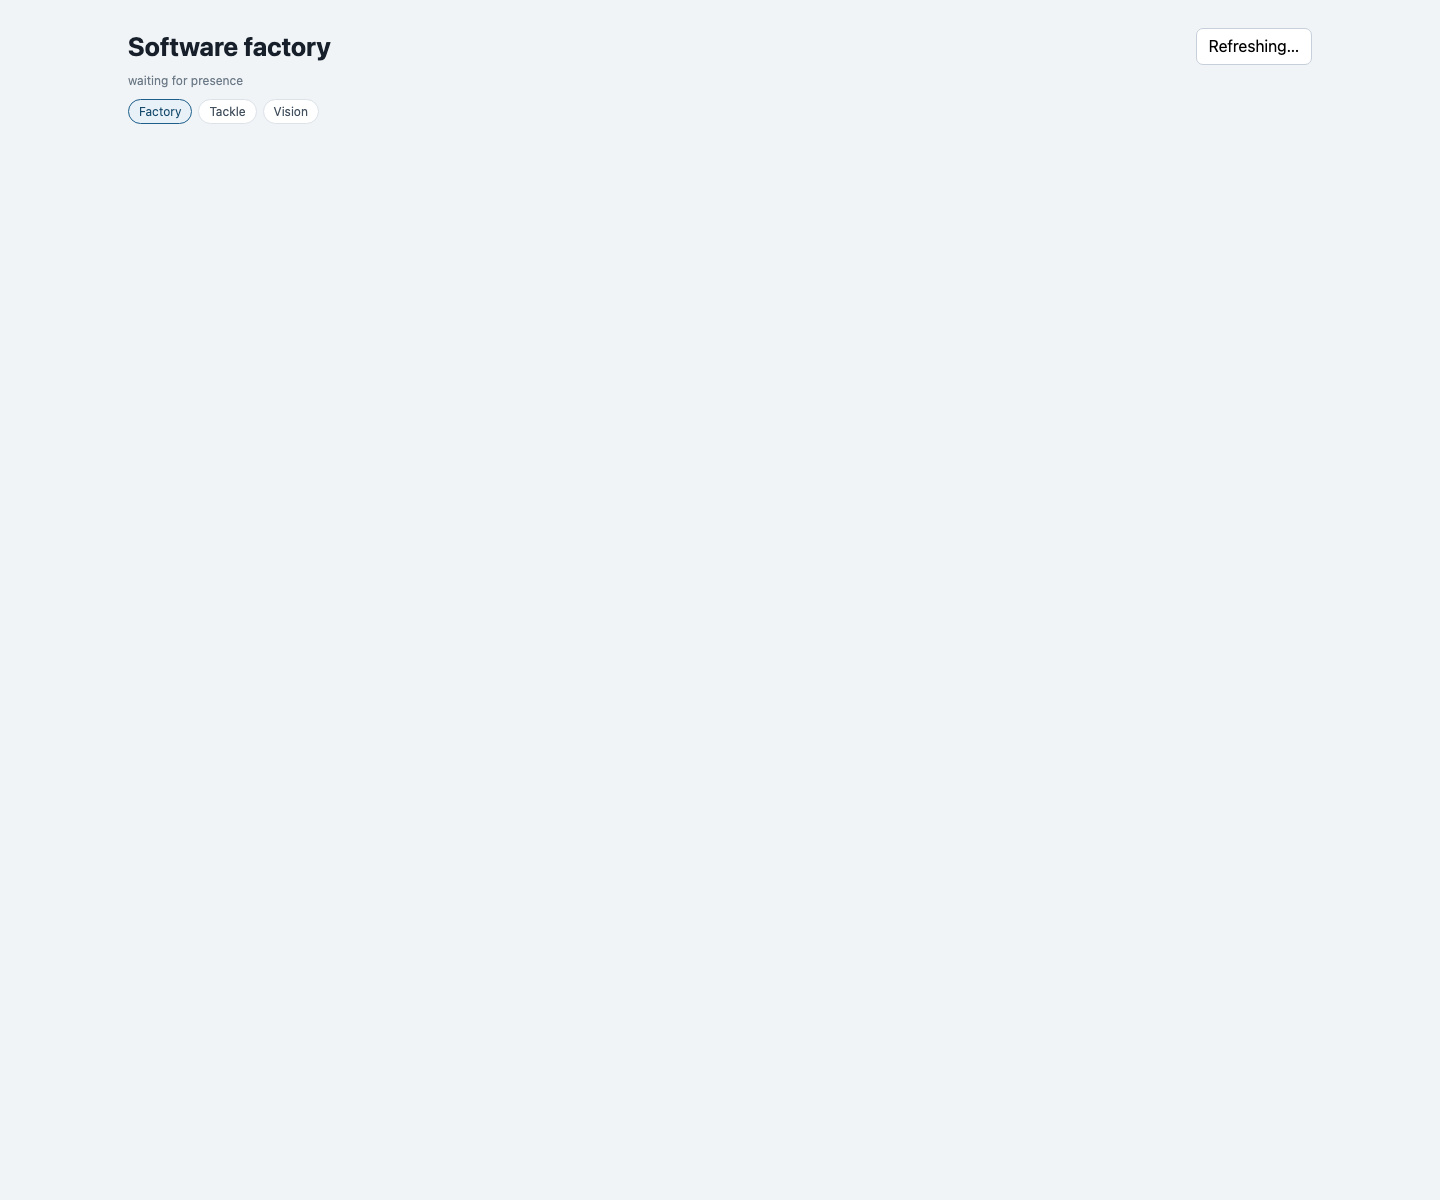
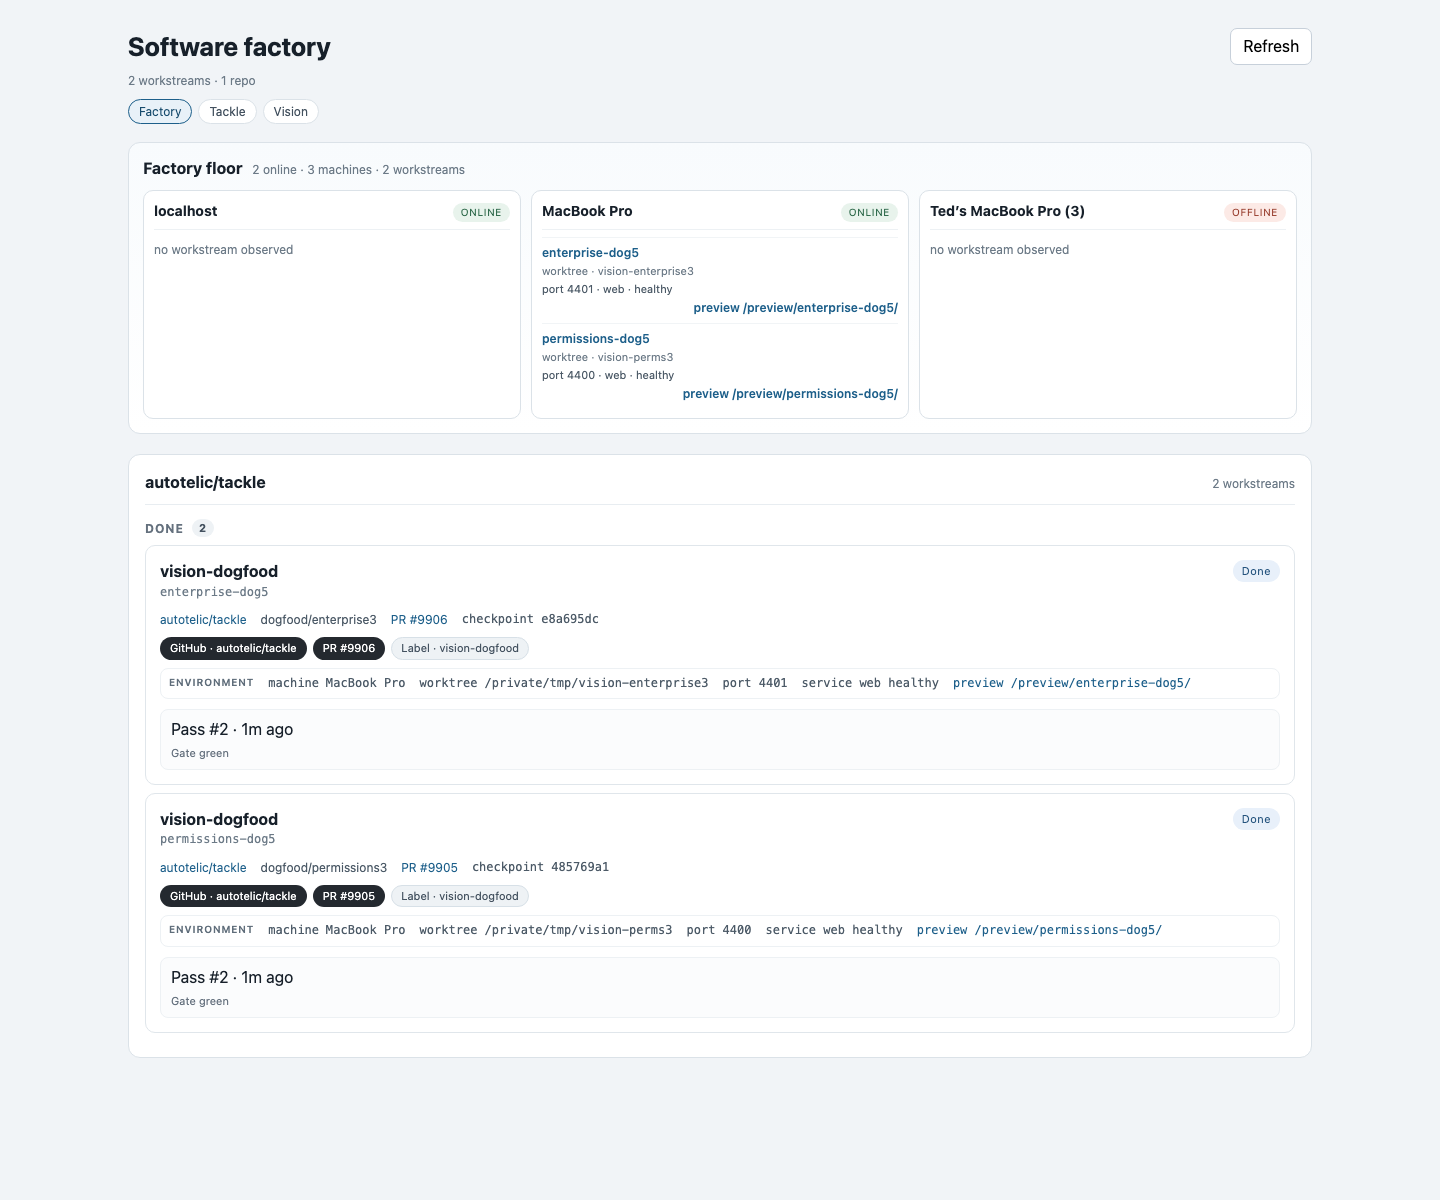
factory: clear ready desks on merge and prove restart
Merged retirement closes the ready-to-merge item, so a done workstream cannot still ask for a merge. The dogfood now crosses two processes with distinct PIDs and timestamps, zero-quality receipts, clean checkpoints, and empty desks.

diff --git a/packages/board/test/watch.test.ts b/packages/board/test/watch.test.ts
@@ -4,7 +4,7 @@ import { join } from "node:path"
 import { fileURLToPath } from "node:url"
 import * as Result from "effect/Result"
 import { expect, test } from "vitest"
-import { answerDesk, raiseDesk } from "../src/factory/desk.ts"
+import { answerDesk, listDesk, raiseDesk } from "../src/factory/desk.ts"
 import { readWorkstream, recordOf, writeWorkstream, type Workstream } from "../src/factory/store.ts"
 import {
   baseEvents,
@@ -180,6 +180,47 @@ test("a merged PR becomes a retirement event and nothing else", () => {
   expect(events).toHaveLength(1)
   expect(events[0]?.kind).toBe("merged")
   expect(events[0]?.id).toBe("github:merged:1862:abc123")
+})
+
+test("a merged PR closes the pending ready desk", async () => {
+  const root = mkdtempSync(join(tmpdir(), "factory-merged-desk-"))
+  try {
+    const record = { ...base(), phase: "build" as const }
+    await writeWorkstream({ record, home: root })
+    await raiseDesk({
+      home: root,
+      item: {
+        id: "ready-1",
+        workstream: record.id,
+        kind: "decision",
+        title: "Ready to merge",
+        body: "Land it?",
+        choices: ["done", "continue"],
+        route: "live",
+        at: "2026-11-22T00:00:00.000Z",
+      },
+    })
+    await watchOnce({
+      id: record.id,
+      home: root,
+      at: "2026-11-22T00:06:00.000Z",
+      runGh: () =>
+        Result.succeed(
+          JSON.stringify({
+            headRefOid: record.head,
+            reviews: [],
+            comments: [],
+            state: "MERGED",
+            mergedAt: "2026-11-22T00:05:00.000Z",
+            mergeCommit: { oid: "abc123" },
+          }),
+        ),
+    })
+    expect(await listDesk({ home: root })).toEqual([])
+    expect((await readWorkstream({ id: record.id, home: root }))?.phase).toBe("done")
+  } finally {
+    rmSync(root, { recursive: true, force: true })
+  }
 })
 
 test("a done desk answer retires the workstream without a pass", async () => {

diff --git a/packages/board/src/factory/watch.ts b/packages/board/src/factory/watch.ts
@@ -8,7 +8,7 @@ import * as Schema from "effect/Schema"
 import { appendEvent, consumeEvents, readEvents } from "./events.ts"
 import { isProtectedPath, passesUsed, runPass, type PassOutcome } from "./kernel.ts"
 import { readWorkstream, writeWorkstream, type Workstream } from "./store.ts"
-import { listAnswers, readDesk } from "./desk.ts"
+import { answerDesk, listAnswers, listDesk, readDesk } from "./desk.ts"
 import { Report } from "./report.ts"
 
 /** A source event already normalized to the shape the kernel consumes. */
@@ -502,6 +502,15 @@ export const watchOnce = async (input: {
       if (record.phase !== "done") {
         record = { ...record, phase: "done", updatedAt: event.at }
         await writeWorkstream({ record, home: input.home })
+      }
+      // A merged PR closes the ready-to-merge question too. Leaving it pending would
+      // tell the operator to merge a PR the factory has already retired.
+      for (const item of await listDesk({ home: input.home })) {
+        if (item.workstream !== record.id || !item.choices.includes("done")) continue
+        await answerDesk({
+          home: input.home,
+          answer: { item: item.id, choice: "done", by: "factory", at: event.at },
+        })
       }
       if (previous === undefined)
         await appendEvent({

diff --git a/docs/vision-dogfood.md b/docs/vision-dogfood.md
@@ -1,4 +1,4 @@
-# Vision dogfood — two feature branches, cleanly
+# Vision dogfood — two feature branches, two processes
 
 Date: 2026-11-24  
 Target: a scratch clone of `autotelic/tackle` at `e79aa763`  
@@ -8,104 +8,68 @@ Target repository: untouched. No Shakti checkout was opened.
 
 ```text
 scratch clone   /tmp/vision-dogfood3
-factory home    /tmp/vision-factory-home4
+factory home    /tmp/vision-factory-home5
 worktree A      /tmp/vision-perms3       branch dogfood/permissions3
 worktree B      /tmp/vision-enterprise3  branch dogfood/enterprise3
-PR metadata     local gh double returning PR 9903 / 9904
+PR metadata     local gh double returning PR 9905 / 9906
 ```
 
-Each worktree links the repository's package dependencies so the **whole** project gate
-runs, not just a partial dependency graph. The earlier dogfood's 184 errors were a broken
-dependency graph in the scratch worktree (missing package-level `node_modules` links), not
-a "raw census". That run is superseded by this one.
+The worktrees link every package's dependencies, so the whole project gate runs. The earlier
+184-error run was a broken dependency graph in that scratch worktree; it is superseded.
 
-## Passes
+## Passes across processes
 
-Both workstreams received a **real check event** from the PR double and a bounded task:
+Pass 1 was a real check event, run in one process per workstream. Pass 2 was a task event,
+run in a **new process** per workstream.
+
+| workstream         | pass 1                | pass 2                | quality                    |
+| ------------------ | --------------------- | --------------------- | -------------------------- |
+| `permissions-dog5` | pid 75253 · 03:20:48Z | pid 76712 · 03:21:04Z | 0 errors / 0 warnings both |
+| `enterprise-dog5`  | pid 75254 · 03:20:48Z | pid 76713 · 03:21:04Z | 0 errors / 0 warnings both |
+
+The records, events, locks, worktrees, and checkpoints survived the process boundary. The
+two workstreams ran concurrently in the first process pair and again in the second.
+
+## Ready, done, merge
+
+Both pass-1 receipts produced the explicit handoff:
 
 ```text
-github:check:e79aa763…:passed
-task-1795478460000
+desk-permissions-dog5-ready-1  Ready to merge PR #9905
+desk-enterprise-dog5-ready-1   Ready to merge PR #9906
 ```
 
-| workstream         | branch                 | checkpoints            | quality                | ready handoff                   |
-| ------------------ | ---------------------- | ---------------------- | ---------------------- | ------------------------------- |
-| `permissions-dog4` | `dogfood/permissions3` | `e5806a27`, `9da1dffd` | before 0/0 · after 0/0 | `desk-permissions-dog4-ready-1` |
-| `enterprise-dog4`  | `dogfood/enterprise3`  | `31988f65`, `b5cbcdfa` | before 0/0 · after 0/0 | `desk-enterprise-dog4-ready-1`  |
-
-There are no stalled-quality desk items. Both ready items were raised by `readyForHuman`,
-which only fires when a check event and a zero-error local gate meet.
-
-## Retirement
-
-Both lifecycle exits were exercised:
+Both exits were exercised:
 
 ```text
-enterprise-dog4  desk done answer  → phase done, no pass
-permissions-dog4 merged PR event   → phase done, no pass
+enterprise-dog5  desk done answer  → phase done, no pass
+permissions-dog5 merged PR event   → phase done, no pass
 ```
 
-```text
-enterprise-dog4  P-DOGFOOD  PR 9904  done  checkpoint b5cbcdfa
-permissions-dog4 P-DOGFOOD  PR 9903  done  checkpoint 9da1dffd
-```
-
-The merge path used the real `merged` event parser against the PR double; the desk path used
-the real answer store. The target's real PRs were not opened or merged.
+After merge retirement the ready desk is closed automatically; `factory desk list` is empty.
+The merged event parser was also exercised against the real merged PR #11
+(`github:merged:11:8ba6fee6...`), and the real open PR #1862 was read without touching it.
 
 ## Checkpoint hygiene
 
-```text
-git show --name-only ad5843e8... | grep node_modules   → none
-git show --name-only 31988f65... | grep node_modules   → none
-```
-
-The `.gitignore` now ignores `node_modules` as a name as well as a directory, so a symlinked
-dependency tree cannot enter a checkpoint. No checkpoint carries an absolute host path.
+Checkpoints `4f5cbec1`, `485769a1`, `6ffcda4a`, and `e8a695dc` contain no
+`node_modules` entries. The `.gitignore` ignores the name as well as the directory, and
+`adopt.test.ts` has a regression test for a symlinked dependency tree.
 
 ## Evidence
 
 ```text
-/tmp/vision-perms3/docs/vision-dogfood-permissions-dog4.md
-/tmp/vision-enterprise3/docs/vision-dogfood-enterprise-dog4.md
-/tmp/vision-factory-home4/workstreams/permissions-dog4.receipts/000{1,2}.json
-/tmp/vision-factory-home4/workstreams/enterprise-dog4.receipts/000{1,2}.json
-/tmp/vision-factory-home4/desk/desk-{permissions,enterprise}-dog4-ready-1.json
+/tmp/vision-perms3/docs/vision-dogfood-permissions-dog5.md
+/tmp/vision-enterprise3/docs/vision-dogfood-enterprise-dog5.md
+/tmp/vision-factory-home5/workstreams/permissions-dog5.receipts/000{1,2}.json
+/tmp/vision-factory-home5/workstreams/enterprise-dog5.receipts/000{1,2}.json
+/tmp/vision-factory-home5/desk/  (empty after retirement)
 ```
-
-## What this proves
-
-- two feature-branch workstreams can run concurrently with their own branches, worktrees,
-  checkpoints, events, receipts, and quality measurements;
-- a check-passed event and a zero-error gate produce the explicit ready-to-merge handoff;
-- a done answer and a merged PR both retire without spending another pass;
-- checkpoint contents are clean of host dependency symlinks;
-- the Shakti target was not touched.
-
-## Real GitHub reads
-
-The lifecycle dogfood used a local PR double, but the same parser was checked against two
-real PRs without mutating either target:
-
-```text
-real merged PR #11 (autotelic/tackle)
-  github:merged:11:8ba6fee6...
-  factory status: real-merge  PR 11  done
-
-real open PR #1862 (Shakti-Reforestation/forestbuilder)
-  github:review:PRR_kwDOK7o5SM8AAAABZoIWoA  COMMENTED
-  github:check:b80d696a...:passed            passed (27 checks)
-  github:conflict:b80d696a...:1beb66bf...     CONFLICTING
-```
-
-`watchOnce` used the real merged event to move a temporary record to `done`; PR #1862 was
-read-only and was not adopted, edited, or merged.
 
 ## Limits
 
-- The two-workstream lifecycle PR is a local test double. It exercises the same GitHub
-  event parser and the same factory lifecycle, but it is not a remote GitHub PR. Real target
-  PRs remain out of scope until the operator launches them.
-- The dogfood edits are documentation-only. They prove orchestration, not a target feature.
+- The two-workstream PR is a local test double. It exercises the same GitHub event parser and
+  factory lifecycle, but it is not a remote GitHub PR. Real target PRs remain out of scope.
+- The dogfood edits are documentation-only; they prove orchestration, not a target feature.
 - Embedded agentOS isolation is proven separately in `packages/room/test/agentos.test.ts`;
   the board preview bridge still forwards host ports.

diff --git a/docs/vision-render.md b/docs/vision-render.md
@@ -5,13 +5,14 @@ This is an inspected browser render, not a model-level assertion.
 ## How it was served
 
 ```sh
-FACTORY_HOME=/tmp/vision-factory-home4 \
+FACTORY_HOME=/tmp/vision-factory-home5 \
   node --conditions=development packages/board/src/cli.ts up \
   --root /tmp/vision-shop3 --port 4811 --host 127.0.0.1 --detach
 ```
 
-The factory home contains `permissions-dog4` and `enterprise-dog4`; the room root has
-two healthy services on 4400/4401, and each workstream has a preview route.
+The factory home contains `permissions-dog5` and `enterprise-dog5`; the room root has
+two healthy services on 4400/4401, and each workstream has a preview route. Both are done
+and the ready desks are closed.
 
 ## Browser evidence
 
@@ -31,12 +32,12 @@ important parts:
 
 /factory
   2 workstreams · 1 repo
-  enterprise-dog4  Done  checkpoint b5cbcdfa
-  permissions-dog4 Done  checkpoint 9da1dffd
+  enterprise-dog5  Done  checkpoint e8a695dc
+  permissions-dog5 Done  checkpoint 485769a1
   ENVIRONMENT
-  port 4401 · web healthy · preview /preview/enterprise-dog4/
-  port 4400 · web healthy · preview /preview/permissions-dog4/
-  NEEDS YOU  Ready to merge PR #9903
+  port 4401 · web healthy · preview /preview/enterprise-dog5/
+  port 4400 · web healthy · preview /preview/permissions-dog5/
+  desk: empty
 ```
 
 Screenshots are committed beside this note:
